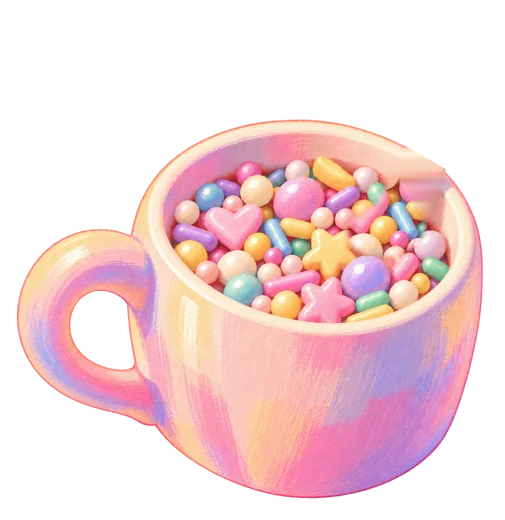
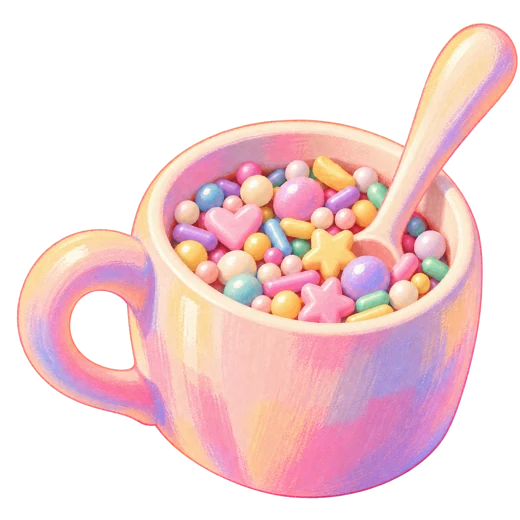
Add files via upload

diff --git a/styles.css b/styles.css
@@ -949,40 +949,43 @@ input,select,textarea{max-width:100%;min-width:0}
   .valor2 small{flex-basis:100%;padding-left:36px}
 }
 /* =====================================================
-   Lucky Scoops: cuchara en la taza de perlitas -> llavero -> libreta
+   Lucky Scoops: la taza se mueve, salta una perlita y aparece un premio
    ===================================================== */
-.lucky-anim{position:relative;width:350px;height:320px;justify-self:center;margin:-14px auto -18px}
-.la-taza{position:absolute;left:0;bottom:0;width:220px;z-index:2;filter:drop-shadow(0 10px 14px rgba(120,55,70,.14))}
-.la-cuchara{position:absolute;left:137px;top:63px;width:56px;height:165px;z-index:1;transform-origin:28px 132px;animation:la-cuch 6s cubic-bezier(.45,.05,.35,1) infinite;overflow:visible}
-.la-perla{transform-box:fill-box;transform-origin:center;animation:la-perla 6s ease-in-out infinite}
-.la-premio{position:absolute;right:0;top:48px;width:140px;z-index:3;opacity:0;transform:scale(.2);filter:drop-shadow(0 10px 12px rgba(120,55,70,.18));animation:la-premio 12s ease-in-out infinite}
+.lucky-anim{position:relative;width:350px;height:300px;justify-self:center;margin:-10px auto -16px}
+.la-taza{position:absolute;left:0;bottom:4px;width:232px;z-index:2;transform-origin:50% 92%;filter:drop-shadow(0 10px 14px rgba(120,55,70,.14));animation:la-taza 6s ease-in-out infinite}
+.la-perla{position:absolute;left:150px;top:160px;width:34px;z-index:3;opacity:0;filter:drop-shadow(0 4px 6px rgba(120,55,70,.2));animation:la-perla 6s ease-in-out infinite}
+.la-premio{position:absolute;right:0;top:22px;width:142px;z-index:3;opacity:0;transform:scale(.2);filter:drop-shadow(0 10px 12px rgba(120,55,70,.18));animation:la-premio 12s ease-in-out infinite}
 .la-p2{animation-delay:6s}
-.la-brillo{position:absolute;left:262px;top:122px;width:0;height:0;z-index:4}
+.la-brillo{position:absolute;left:276px;top:96px;width:0;height:0;z-index:4}
 .la-brillo i{position:absolute;left:-5px;top:-5px;width:10px;height:10px;border-radius:50%;background:var(--amarillo);box-shadow:0 0 0 2px #fff;opacity:0;animation:la-brillo 6s ease-out infinite}
 .la-brillo i:nth-child(2n){background:var(--rosa-fuerte)}
 .la-brillo i:nth-child(3n){background:var(--lila)}
-.la-brillo i:nth-child(1){--dx:0px;--dy:-70px}.la-brillo i:nth-child(2){--dx:62px;--dy:-36px}.la-brillo i:nth-child(3){--dx:62px;--dy:36px}
-.la-brillo i:nth-child(4){--dx:0px;--dy:70px}.la-brillo i:nth-child(5){--dx:-62px;--dy:36px}.la-brillo i:nth-child(6){--dx:-62px;--dy:-36px}
-@keyframes la-cuch{
-  0%{transform:translate(34px,-42px) rotate(15deg)}
-  18%{transform:translate(0,0) rotate(34deg)}
-  25%{transform:translate(-7px,5px) rotate(28deg)}
-  32%{transform:translate(2px,1px) rotate(37deg)}
-  38%{transform:translate(0,0) rotate(34deg)}
-  52%,100%{transform:translate(34px,-42px) rotate(15deg)}
+.la-brillo i:nth-child(1){--dx:0px;--dy:-72px}.la-brillo i:nth-child(2){--dx:64px;--dy:-36px}.la-brillo i:nth-child(3){--dx:64px;--dy:36px}
+.la-brillo i:nth-child(4){--dx:0px;--dy:72px}.la-brillo i:nth-child(5){--dx:-64px;--dy:36px}.la-brillo i:nth-child(6){--dx:-64px;--dy:-36px}
+@keyframes la-taza{
+  0%,4%{transform:rotate(0)}
+  10%{transform:rotate(-3deg)}18%{transform:rotate(2.5deg)}26%{transform:rotate(-2deg)}
+  32%{transform:rotate(0) scale(1,1)}
+  36%{transform:scale(1.03,.95)}
+  40%{transform:scale(.98,1.04) translateY(-4px)}
+  46%,100%{transform:scale(1,1) translateY(0)}
 }
-@keyframes la-perla{0%,38%{opacity:0;transform:scale(.6)}44%,54%{opacity:1;transform:scale(1)}59%,100%{opacity:0;transform:scale(1.9)}}
-@keyframes la-brillo{0%,54%{opacity:0;transform:translate(0,0) scale(.3)}58%{opacity:1}68%,100%{opacity:0;transform:translate(var(--dx),var(--dy)) scale(1)}}
+@keyframes la-perla{
+  0%,35%{opacity:0;transform:translate(0,10px) scale(.4)}
+  39%{opacity:1;transform:translate(8px,-30px) scale(1)}
+  46%{opacity:1;transform:translate(58px,-112px) scale(1.15)}
+  53%{opacity:1;transform:translate(110px,-80px) scale(1.25)}
+  57%,100%{opacity:0;transform:translate(110px,-80px) scale(2)}
+}
+@keyframes la-brillo{0%,53%{opacity:0;transform:translate(0,0) scale(.3)}57%{opacity:1}68%,100%{opacity:0;transform:translate(var(--dx),var(--dy)) scale(1)}}
 @keyframes la-premio{
   0%,27%{opacity:0;transform:translateY(10px) scale(.2) rotate(-10deg)}
   31%{opacity:1;transform:translateY(-6px) scale(1.08) rotate(-5deg)}
   34%{transform:translateY(0) scale(1) rotate(0)}
   40%{transform:translateY(-8px) scale(1) rotate(4deg)}
-  45%{opacity:1;transform:translateY(-2px) scale(1) rotate(0)}
-  49%,100%{opacity:0;transform:translateY(-14px) scale(.85) rotate(0)}
+  46%{opacity:1;transform:translateY(-2px) scale(1) rotate(0)}
+  49.5%,100%{opacity:0;transform:translateY(-14px) scale(.85) rotate(0)}
 }
 @media (max-width:820px){
-  .lucky-anim{order:-1;margin:-6px auto -34px;transform:scale(.86);transform-origin:center top;height:280px}
+  .lucky-anim{order:-1;margin:-6px auto -34px;transform:scale(.86);transform-origin:center top;height:290px}
 }
-
-@media (prefers-reduced-motion:reduce){.la-cuchara,.la-perla,.la-premio,.la-brillo i{animation-duration:12s}}

diff --git a/app.js b/app.js
@@ -323,15 +323,8 @@
           <h2>Lucky Scoops</h2><p>${esc(SC.intro || "Elige tus colores y personajes favoritos y armamos tu scoop.")}</p>
           <span class="btn">Armar mi scoop</span></div>
         <div class="lucky-anim" aria-hidden="true">
-          <svg class="la-cuchara" viewBox="0 0 44 130"><defs>
-              <linearGradient id="laG" x1="0" x2="1"><stop offset="0" stop-color="#ffe3c2"/><stop offset=".45" stop-color="#fff6ec"/><stop offset="1" stop-color="#dcb8f0"/></linearGradient>
-              <radialGradient id="laP" cx=".35" cy=".35" r=".7"><stop offset="0" stop-color="#fff"/><stop offset=".5" stop-color="#ffc2dd"/><stop offset="1" stop-color="#f58ab8"/></radialGradient></defs>
-            <path d="M22 2c8 0 13 6 13 14 0 14-8 34-9 58h-8C17 50 9 30 9 16 9 8 14 2 22 2z" fill="url(#laG)" stroke="#f29cb0" stroke-width="2.2"/>
-            <ellipse cx="22" cy="104" rx="19" ry="23" fill="url(#laG)" stroke="#f29cb0" stroke-width="2.2"/>
-            <ellipse cx="22" cy="106" rx="13" ry="16" fill="#f7d6d2"/>
-            <circle class="la-perla" cx="22" cy="104" r="9" fill="url(#laP)"/>
-          </svg>
           <img class="la-taza" src="taza-cani.webp" alt="">
+          <img class="la-perla" src="perla.webp" alt="">
           <span class="la-brillo"><i></i><i></i><i></i><i></i><i></i><i></i></span>
           <img class="la-premio la-p1" src="llavero.webp" alt="">
           <img class="la-premio la-p2" src="libreta.webp" alt="">

diff --git a/index.html b/index.html
@@ -8,7 +8,7 @@
   <meta name="theme-color" content="#fd95c8">
   <link rel="preconnect" href="https://fonts.googleapis.com">
   <link href="https://fonts.googleapis.com/css2?family=Fredoka:wght@400;500;600;700&family=Comfortaa:wght@400;500;600;700&display=swap" rel="stylesheet">
-  <link rel="stylesheet" href="styles.css?v=20261028c">
+  <link rel="stylesheet" href="styles.css?v=20261028d">
 </head>
 <body>
   <div class="aviso">
@@ -128,6 +128,6 @@
   <div class="toast" id="toast"></div>
 
   <script src="productos.js"></script>
-  <script src="app.js?v=20261028c"></script>
+  <script src="app.js?v=20261028d"></script>
 </body>
 </html>
